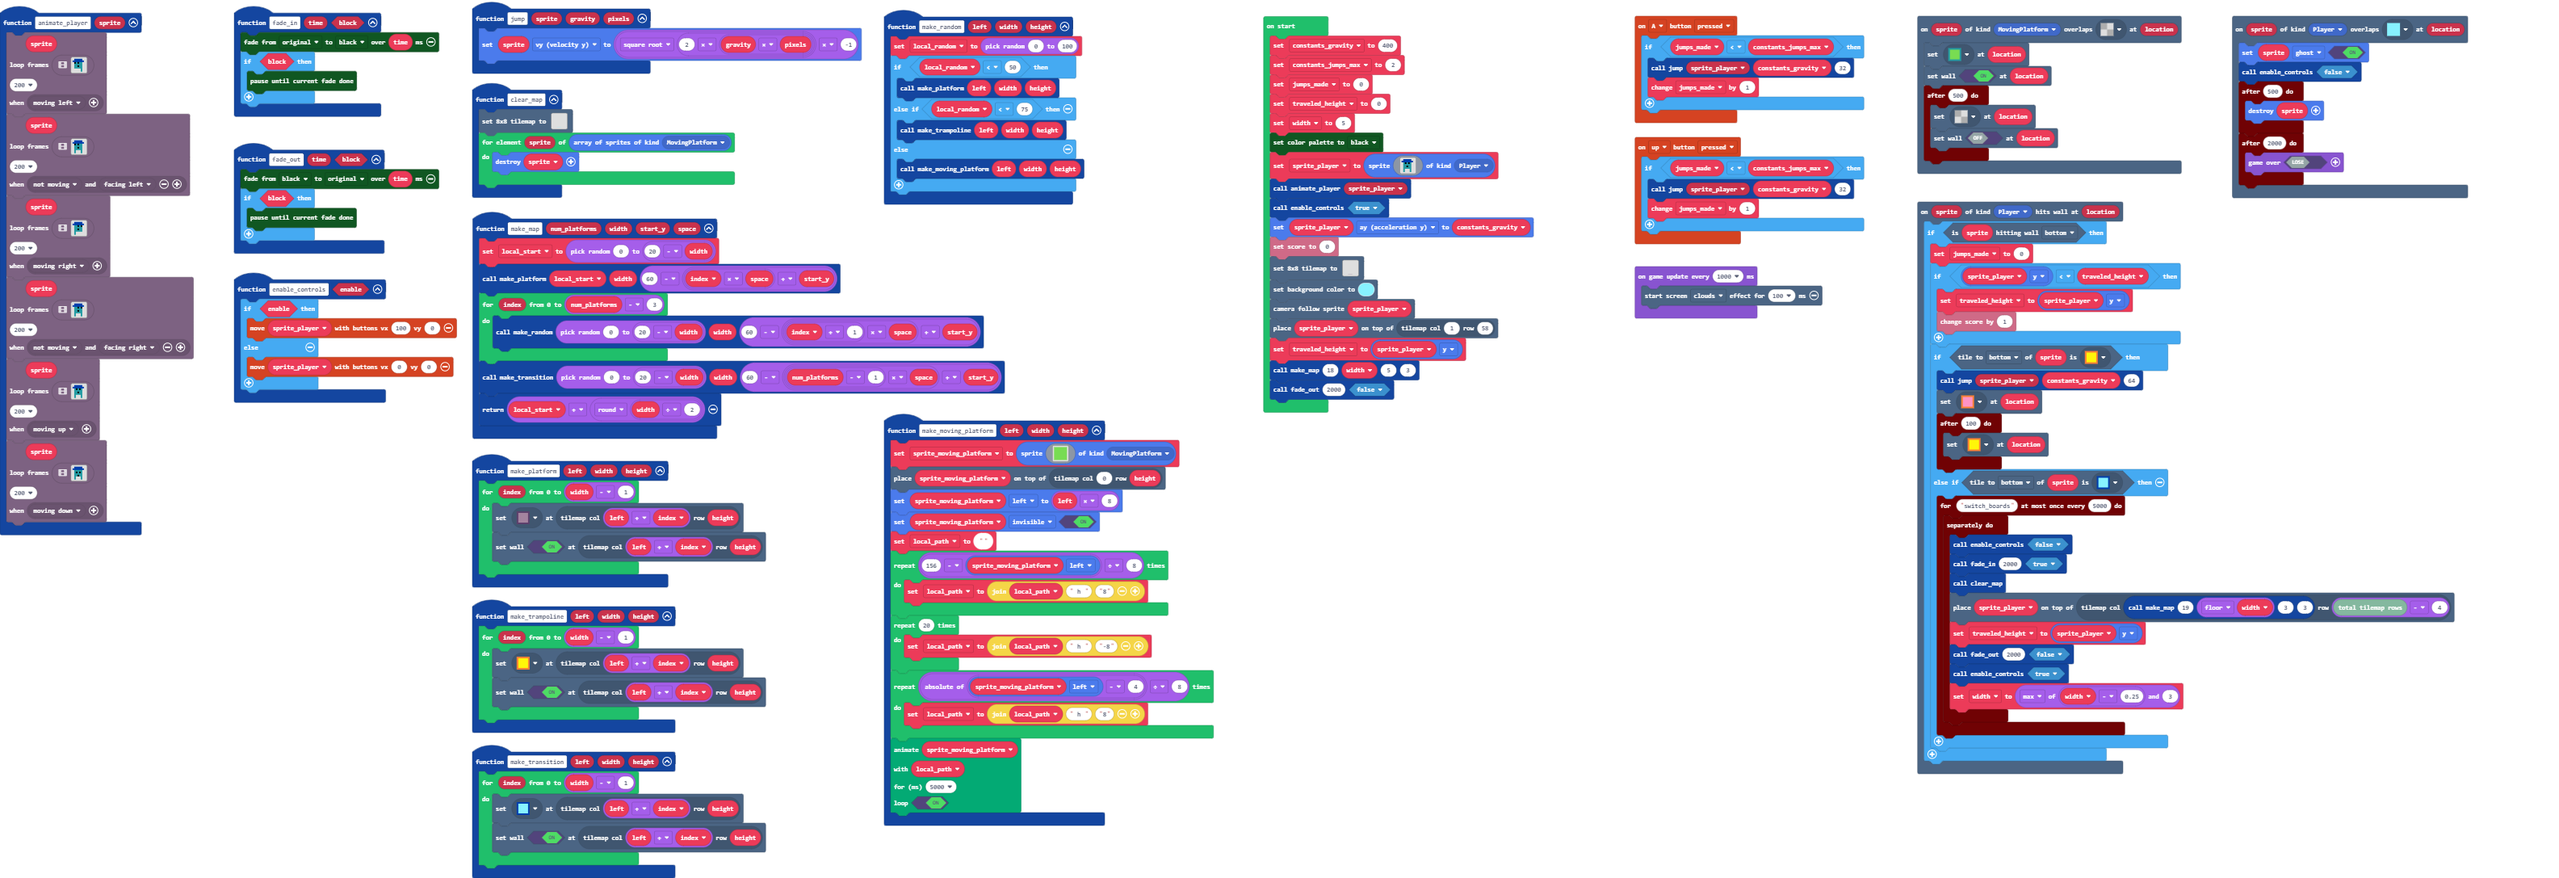
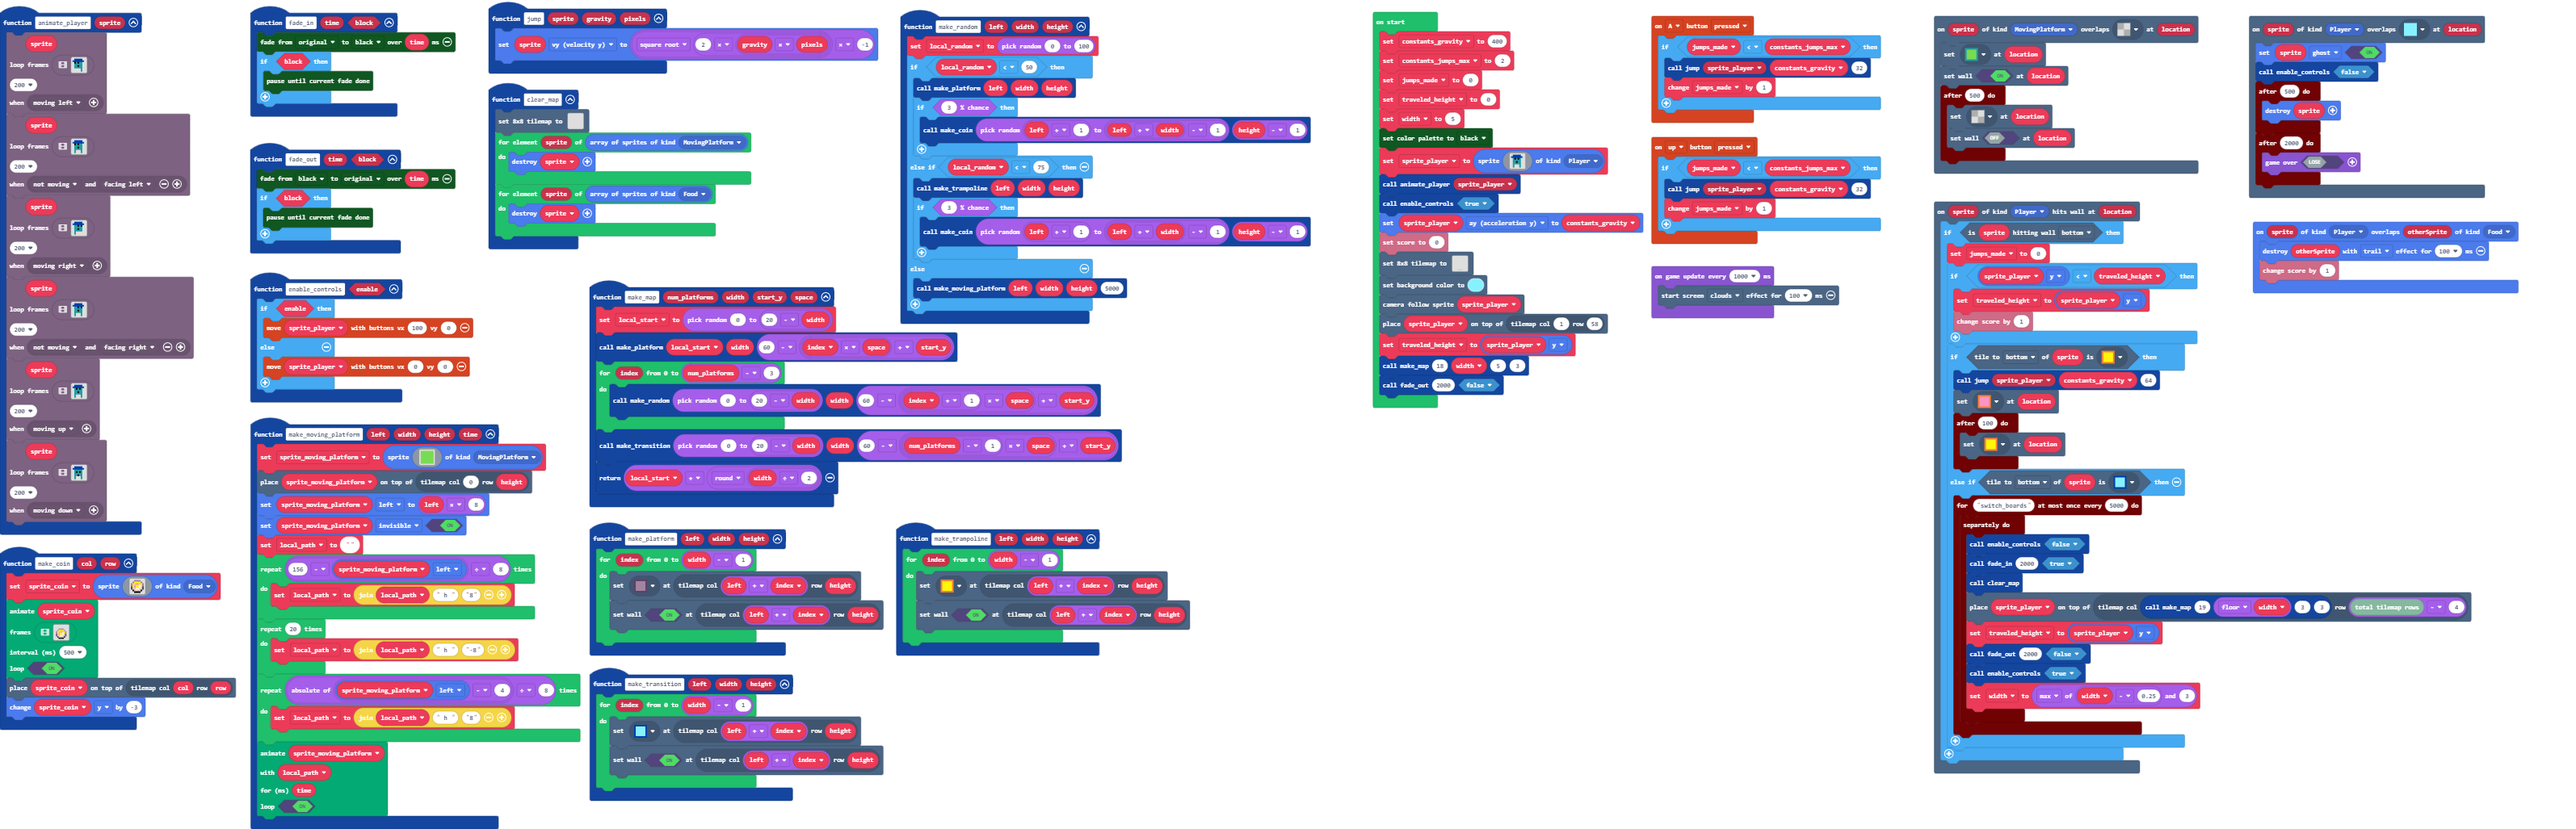
Add coins

diff --git a/main.ts b/main.ts
@@ -69,6 +69,9 @@ function clear_map () {
     for (let sprite of sprites.allOfKind(SpriteKind.MovingPlatform)) {
         sprite.destroy()
     }
+    for (let sprite of sprites.allOfKind(SpriteKind.Food)) {
+        sprite.destroy()
+    }
 }
 scene.onOverlapTile(SpriteKind.MovingPlatform, assets.tile`transparency8`, function (sprite, location) {
     tiles.setTileAt(location, assets.tile`moving_platform`)
@@ -83,6 +86,17 @@ function fade_out (time: number, block: boolean) {
     if (block) {
         color.pauseUntilFadeDone()
     }
+}
+function make_coin (col: number, row: number) {
+    sprite_coin = sprites.create(assets.image`coin`, SpriteKind.Food)
+    animation.runImageAnimation(
+    sprite_coin,
+    assets.animation`coin_bobbing`,
+    500,
+    true
+    )
+    tiles.placeOnTile(sprite_coin, tiles.getTileLocation(col, row))
+    sprite_coin.y += -3
 }
 function fade_in (time: number, block: boolean) {
     color.startFade(color.originalPalette, color.Black, time)
@@ -116,14 +130,24 @@ function make_map (num_platforms: number, width: number, start_y: number, space:
     make_transition(randint(0, 20 - width), width, 60 - ((num_platforms - 1) * space + start_y))
     return local_start + Math.round(width / 2)
 }
+sprites.onOverlap(SpriteKind.Player, SpriteKind.Food, function (sprite, otherSprite) {
+    otherSprite.destroy(effects.trail, 100)
+    info.changeScoreBy(1)
+})
 function make_random (left: number, width: number, height: number) {
     local_random = randint(0, 100)
     if (local_random < 50) {
         make_platform(left, width, height)
+        if (Math.percentChance(3)) {
+            make_coin(randint(left + 1, left + width - 1), height - 1)
+        }
     } else if (local_random < 75) {
         make_trampoline(left, width, height)
+        if (Math.percentChance(3)) {
+            make_coin(randint(left + 1, left + width - 1), height - 1)
+        }
     } else {
-        make_moving_platform(left, width, height)
+        make_moving_platform(left, width, height, 5000)
     }
 }
 function animate_player (sprite: Sprite) {
@@ -164,7 +188,7 @@ function animate_player (sprite: Sprite) {
     character.rule(Predicate.MovingDown)
     )
 }
-function make_moving_platform (left: number, width: number, height: number) {
+function make_moving_platform (left: number, width: number, height: number, time: number) {
     sprite_moving_platform = sprites.create(assets.image`moving_platform_head`, SpriteKind.MovingPlatform)
     tiles.placeOnTile(sprite_moving_platform, tiles.getTileLocation(0, height))
     sprite_moving_platform.left = left * 8
@@ -182,7 +206,7 @@ function make_moving_platform (left: number, width: number, height: number) {
     animation.runMovementAnimation(
     sprite_moving_platform,
     local_path,
-    5000,
+    time,
     true
     )
 }
@@ -190,6 +214,7 @@ let local_path = ""
 let sprite_moving_platform: Sprite = null
 let local_random = 0
 let local_start = 0
+let sprite_coin: Sprite = null
 let sprite_player: Sprite = null
 let width = 0
 let traveled_height = 0

diff --git a/images.g.ts b/images.g.ts
@@ -21,6 +21,17 @@ namespace myImages {
 . 6 . . . 6 . . 
 . 6 . . . 6 . . 
 `;
+            case "image3":
+            case "coin":return img`
+. . b b b b . . 
+. b 5 5 5 5 b . 
+b 5 d 3 3 d 5 b 
+b 5 3 5 5 1 5 b 
+c 5 3 5 5 1 d c 
+c d d 1 1 d d c 
+. f d d d d f . 
+. . f f f f . . 
+`;
         }
         return null;
     })
@@ -110,6 +121,30 @@ namespace myImages {
 . 6 6 f 6 6 . . 
 . 6 . . . 6 . . 
 . 6 . . . 6 . . 
+`];
+            case "coin_bobbing":
+            case "anim7":return [img`
+. . . . . . . . 
+. . . . . . . . 
+. . b b b b . . 
+. b 5 5 5 5 b . 
+b 5 d 3 3 d 5 b 
+b 5 3 5 5 1 5 b 
+c 5 3 5 5 1 d c 
+c d d 1 1 d d c 
+. f d d d d f . 
+. . f f f f . . 
+`, img`
+. . . . . . . . 
+. . b b b b . . 
+. b 5 5 5 5 b . 
+b 5 d 3 3 d 5 b 
+b 5 3 5 5 1 5 b 
+c 5 3 5 5 1 d c 
+c d d 1 1 d d c 
+. f d d d d f . 
+. . f f f f . . 
+. . . . . . . . 
 `];
         }
         return null;
